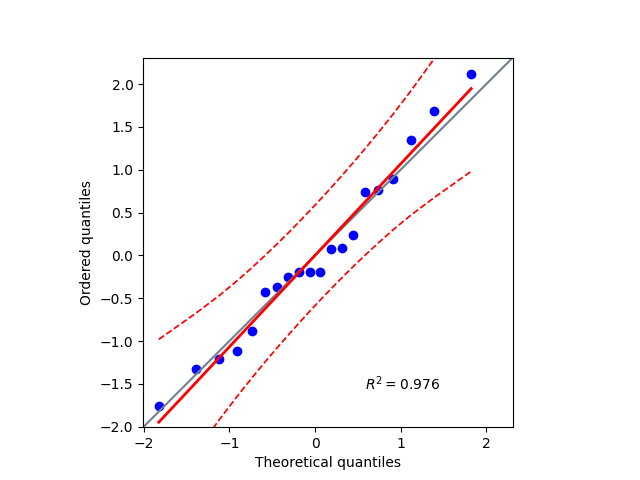
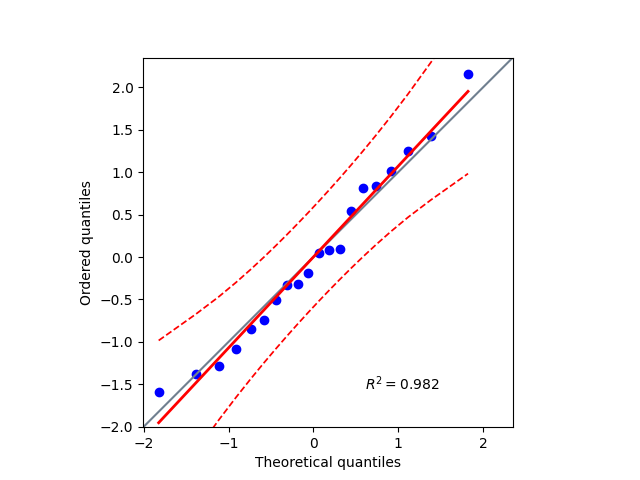
final commit

diff --git a/poly_model.py b/poly_model.py
@@ -18,7 +18,7 @@ print(df_receita.describe())
 
 # 2: Treinamento do modelo
 # graus = [1,2,3,4,5,6,7,8,9,10]
-graus=[3]
+graus=[2]
 
 X = df_receita.drop(columns=['receita_em_reais'])
 y = df_receita["receita_em_reais"]
@@ -46,7 +46,6 @@ for grau in graus:
         ('poly_features', poly_features),
         ('regressor', LinearRegression()),
     ])
-
 
     rmse_scores_fold_train = []
     rmse_scores_fold_test = []
@@ -110,7 +109,9 @@ if len(graus) > 1:
 r2 = r2score_test_values[0]
 rmse_test = rmse_test_values[0]
 rmse_train = rmse_train_values[0]
-
+print(f"R²-Score: {r2}")
+print(f"Root Mean Squared Error - Test: {rmse_test}")
+print(f"Root Mean Squared Error - Train: {rmse_train}")
 # Análise Residual
 residuos_std = zscore(residuos)
 

diff --git a/README.md b/README.md
@@ -64,13 +64,17 @@ Pela correlação de Spearman e de Pearson é possível ver que a correlação e
 ![Dif. RMSE y_pred_test e y_pred_train](./dataviz/polynomial_model/test-train-rmse-linegraph.png)
 
 Usou-se o método k-fold que divide o modelo em 5, usando embaralhamento dos dados. Com isso realiza testes repetidamente com 4 dados de treinamento 1 dado de teste. Com essa iteração tira os valores R²-Score, Rounded Mean Squared Error para os dados de treinamento e de teste, e obtém os resíduos. Isso é feito tanto para o modelo linear como para o modelo polinomial.<br />
-Contudo, para o modelo polinomial, isso é feito para 10 graus polinomiais com o objetivo de compreender qual polinômio representa melhor o modelo. Ao final o **grau 3** aparentou ser o ótimo por apresentar uma diferença percentual de rmse entre predições de treino e de testes menores. Além disso, para esses graus, seu RMSE são muito parecidos para teste e treinamento, o que mostra que está conseguindo lidar com ambos os cenários sem mostrar underfitting e overfitting de forma mais expresiva.
+Contudo, para o modelo polinomial, isso é feito para 10 graus polinomiais com o objetivo de compreender qual polinômio representa melhor o modelo. Ao final o **grau 2** aparentou ser o ótimo por apresentar uma diferença percentual de rmse entre predições de treino e de testes menores. Além disso, para esses graus, seu RMSE são muito parecidos para teste e treinamento, o que mostra que está conseguindo lidar com ambos os cenários sem mostrar underfitting e overfitting de forma mais expresiva.
+
+![R² Scores por Grau](./dataviz/polynomial_model/r2-scores-x-degree-linegraph.png)
+
+Pelo gráfico de R²-Scores, é possível ver que quanto maior o grau do polinômio, pior a variabilidade dos dados está sendo explicada. Logo já é perceptível que, assim como o modelo linear, o modelo polinomial não deve explicar bem o cenário. Não foi escolhido grau 1, pois este representa o modelo linear.
 
 ### Comparação modelo linear múltiplo x modelo polinomial
 |Modelo\Métricas| R²-Score | RMSE Teste | RMSE treinamento |
 |:---:|:---:|:---:|:---:|
 |Regressão Linear Múltipla|≃ -0.14|≃ R$ 2657.78|≃ R$ 2503.77|
-|Regressão Polinomial|≃ -0.74|≃ R$ 3225.0|≃ R$ 2317.53|
+|Regressão Polinomial|≃ -0.24|≃ R$ 2775.01|≃ R$ 2423.52|
 
 1. ***R²-Score***: Mostra que o modelo linear explica melhor a variabilidade dos dados. Contudo, ambos os modelos são negativos, ou seja é melhor até usar a média dos dados para prever que os modelos. 
 2. ***RSME***: Considerando que o mínimo e o máximo da receita são 1133 BRL e 9941 BRL, a raíz do desvio do erro médio é muito alto para ambos os casos tanto no cenário de teste, quanto de treinamento, logo ambos modelos são inadequados.
@@ -82,7 +86,7 @@ Contudo, para o modelo polinomial, isso é feito para 10 graus polinomiais com o
 ![Linearidade](./dataviz/polynomial_model/residuos-scatter.png)
 
 1. Outliers: Pelos scatter dos resíduos, vê-se alguns 1 ponto acima de +2 e abaixo de -2.
-2. Modelo polinomial inadequado e heterocedasticidade: Os resíduos estão espalhados formando um padrão de linha reta, o que indica que o modelo polinomial é inadequado e há heterocedasticidade.
+2. Modelo polinomial de grau 2 inadequado e com heterocedasticidade: Os resíduos estão espalhados formando um padrão de linha reta, o que indica que o modelo polinomial é inadequado e há heterocedasticidade.
 
 #### Métricas de Normalidade dos Resíduos
 ![qqplot modelo polinomial](./dataviz/polynomial_model/qqplot.png)
@@ -91,7 +95,7 @@ Contudo, para o modelo polinomial, isso é feito para 10 graus polinomiais com o
 
 | P-valor de Shapiro-Wilk | P-valor de Kolmogorov-Smirnov | P-valor de Lilliefors |
 |:--:|:--:|:--:|
-|≃ 0.804|≃ 0.871|≃ 0.571|
+|≃ 0.843|≃ 0.941|≃ 0.716|
 
 > **H0**: *os resíduos seguem uma distribuição normal*<br/>
 > **H1**: *os resíduos não seguem uma distribuição normal*
@@ -101,6 +105,9 @@ Contudo, para o modelo polinomial, isso é feito para 10 graus polinomiais com o
 
 
 ### Conclusão
+![Predição x Valor real](./dataviz/polynomial_model/y-true-x-y-test-scatter.png)
+
+- Pelo scatter comparando receita prevista e receita real, vê-se que o modelo erra muitas vezes com poucos pontos próximos.
 - Pela correlação de Spearman e pela correlação de Pearson já seria possível concluir que o modelo de regressão linear, nem o modelo polinomial são ideais para o cenário, pois a correlação das variáveis independentes com a receita não são fortes(Bem próximos de zero).
 - Como o modelo linear tem um R²-Score maior que o modelo polinomial, então o modelo linear explica melhor a variabilidade dos resultados. Contudo, ambos modelos são inadequados para fazer previsões, pois apresentam R²-Score negativos.
 
